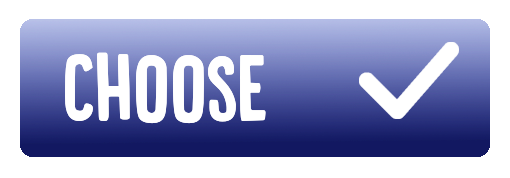
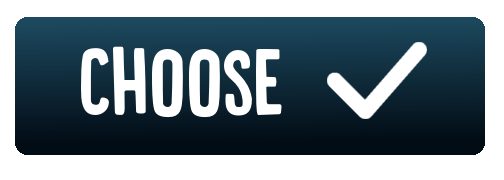
More new buttons

diff --git a/js/Preload.js b/js/Preload.js
@@ -20,10 +20,6 @@ Game.Preload.prototype = {
 	    this.load.image('blackhole', 'assets/blackhole.png');
 	    this.load.image('coin', 'assets/diamond.png');
 	    this.load.image('heart', 'assets/health.png');
-	    this.load.image('earth', 'assets/planets/earth.png');
-	    this.load.image('venus', 'assets/planets/venus.png');
-	    this.load.image('moon', 'assets/planets/moon.png');
-	    this.load.image('neptune', 'assets/planets/neptune.png');
 	    this.load.image('bullet1', 'assets/bullet.png');
 	    this.load.image('bullet2', 'assets/bullet2.png');
 	    this.load.image('bullet3', 'assets/bullet3.png');
@@ -39,9 +35,19 @@ Game.Preload.prototype = {
 	    this.load.image('towerRange150', 'assets/towerRange_150.png');
 	    this.load.spritesheet('explosion', 'assets/explode.png', 128,128);
 
+	    // Lobby.sj
+	    this.load.image('readyButton', 'assets/readyButton.png');
+	    this.load.image('1_2connected', 'assets/1_2connected.png');
+	    this.load.image('2_2connected', 'assets/2_2connected.png')
+	    this.load.image('waitingForOpponent', 'assets/waitingForOpponent.png');
+
+	    // planetMenu.js
 	    this.load.image('choosePlanetMenu', 'assets/choosePlanetMenu.png');
 	    this.load.image('chooseButton', 'assets/chooseButton.png');
-	    this.load.image('waitingForOpponent', 'assets/waitingForOpponent.png');
+	   	this.load.image('earth', 'assets/planets/earth.png');
+	    this.load.image('venus', 'assets/planets/venus.png');
+	    this.load.image('moon', 'assets/planets/moon.png');
+	    this.load.image('neptune', 'assets/planets/neptune.png');
 
 	    // MainMenu.js
 	    this.load.image('play_button', 'assets/play_button.png');
@@ -52,6 +58,12 @@ Game.Preload.prototype = {
 	    this.load.image('helpButton', 'assets/helpButton.png');
 	    this.load.image('settingsButton', 'assets/settingsButton.png');
 	    this.load.image('mainMenuTitle', 'assets/mainMenuTitle.png');
+
+	    // gameOver 
+	    this.load.image('gameoverMenu_win', 'assets/gameoverMenu_win.png');
+	    this.load.image('gameoverMenu_lost', 'assets/gameoverMenu_lost.png')
+	    this.load.image('playAgainButton', 'assets/playAgainButton.png');
+	    this.load.image('backToMenuButton', 'assets/backToMenuButton.png');
 
 	    // HelpMenu.js
 	    this.load.image('help', 'assets/help.jpeg');

diff --git a/js/Lobby.js b/js/Lobby.js
@@ -8,6 +8,7 @@ Game.Lobby = function (game, output) {
 
 var startCountDown = false;
 var copyThis;
+var connectedText;
 
 Game.Lobby.prototype = {
 
@@ -18,12 +19,9 @@ Game.Lobby.prototype = {
 		var background = game.add.sprite(0,0, 'mainMenuBackground'); 
 		background.scale.setTo(2,2);
 
-		var style = { font: "32px Arial", fill: "#ff0044"};
-
-    	game.add.text(game.world.centerX, 0, "LOBBY SCREEN", style);
-		text = game.add.text(game.world.centerX, 20, "Players conected 1/2", style);
+        connectedText = game.add.sprite(0,0, '1_2connected');
 		
-		playButton = game.add.button(game.world.centerX - 250, this.game.height - 200, 'play_button', this.actionOnClickPlay, this, 2, 1, 0);	
+		playButton = game.add.button(game.world.centerX - 250, this.game.height - 200, 'readyButton', this.actionOnClickPlay, this, 2, 1, 0);	
 		playButton.input.enabled = false;
 		playButton.alpha = 0.5;
 
@@ -120,7 +118,8 @@ Game.Lobby.prototype = {
 
 	update:function(){
 		if(updateText){
-			text.setText("Players conected 2/2");
+            connectedText.kill();
+			this.game.add.sprite(0,0, '2_2connected');
 			playButton.alpha = 1;
 			playButton.input.enabled = true;
 		};
@@ -133,7 +132,7 @@ Game.Lobby.prototype = {
 		playButton.kill();
 
 		var style = { font: "32px Arial", fill: "#ff0044"};
-		game.add.sprite(0,0, 'waitingForOpponent');
+		this.game.add.sprite(0,0, 'waitingForOpponent');
 
 		startCountDown = true;
 	},

diff --git a/js/Play.js b/js/Play.js
@@ -104,7 +104,7 @@ Game.Play.prototype = {
         socket = io.connect("http://localhost", {port: 8000, transports: ["websocket"]});
 
         //user = new User("Love", "earth");
-        opponent = new User("Sofie", "saturn");
+        //opponent = new User("Sofie", "saturn");
 
         // Initialise the local player
         user = new User(localName, localType);
@@ -604,9 +604,9 @@ Game.Play.prototype = {
         ship3Bullet.callAll('kill');
         towerBullets.callAll('kill');
 
-
-        playAgainButton = game.add.button(game.world.centerX - 250, this.game.height - 700, 'play_button', this.actionOnClickAgainPlay, this, 2, 1, 0);
-        exitButton = game.add.button(game.world.centerX - 250, this.game.height-200, 'help_button', this.actionOnClickExit, this, 2, 1, 0);
+        game.add.sprite(0,0, 'gameoverMenu_win');
+        playAgainButton = game.add.button(game.world.centerX - 250, this.game.height/2, 'playAgainButton', this.actionOnClickAgainPlay, this, 2, 1, 0);
+        exitButton = game.add.button(game.world.centerX - 250,  this.game.height/2 + 200, 'backToMenuButton', this.actionOnClickExit, this, 2, 1, 0);
     },
 
     actionOnClickAgainPlay:function(){

diff --git a/js/PlanetMenu.js b/js/PlanetMenu.js
@@ -41,7 +41,7 @@ Game.PlanetMenu.prototype = {
 		moonButton.alpha = 0.5;
 		venusButton.alpha = 0.5;
 
-		planetType = "saturn";
+		planetType = "neptune";
 
 		chooseButton.alpha = 1;
 		chooseButton.input.enabled = true;
